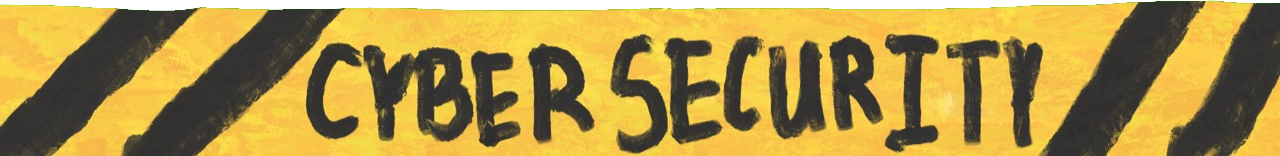
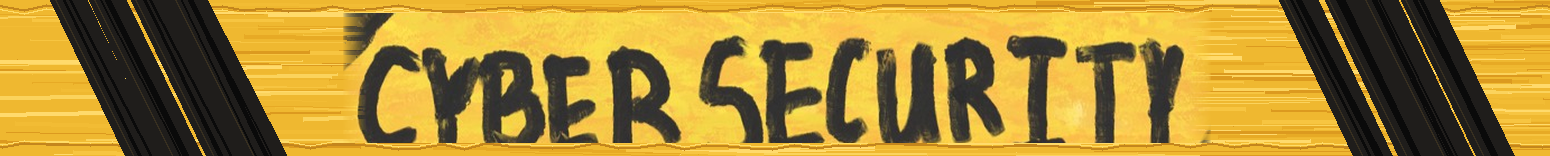
Refine lockdown door and tape art

diff --git a/styles.css b/styles.css
@@ -479,6 +479,26 @@ input:focus {
   transform: translateX(0);
 }
 
+.metal-door-lock-art {
+  position: absolute;
+  z-index: 2;
+  top: 0;
+  left: 50%;
+  height: 100vh;
+  width: auto;
+  max-width: none;
+  object-fit: contain;
+  object-position: center center;
+  opacity: 0;
+  transform: translateX(-50%) scaleX(1.02);
+  transition: opacity 220ms ease 520ms;
+  filter: drop-shadow(0 8px 12px rgba(0, 0, 0, 0.1));
+}
+
+.door-system.is-closed .metal-door-lock-art {
+  opacity: 1;
+}
+
 .door-lock {
   position: absolute;
   top: clamp(88px, 14vh, 150px);

diff --git a/index.html b/index.html
@@ -111,6 +111,11 @@
               src="assets/handdrawn/metal-door-right.png"
               alt=""
             />
+            <img
+              class="metal-door-lock-art"
+              src="assets/handdrawn/metal-door-center-lock.png"
+              alt=""
+            />
             <div class="security-tape-system" aria-hidden="true">
               <div class="tape-track tape-track-one">
                 <span class="tape-line"></span>